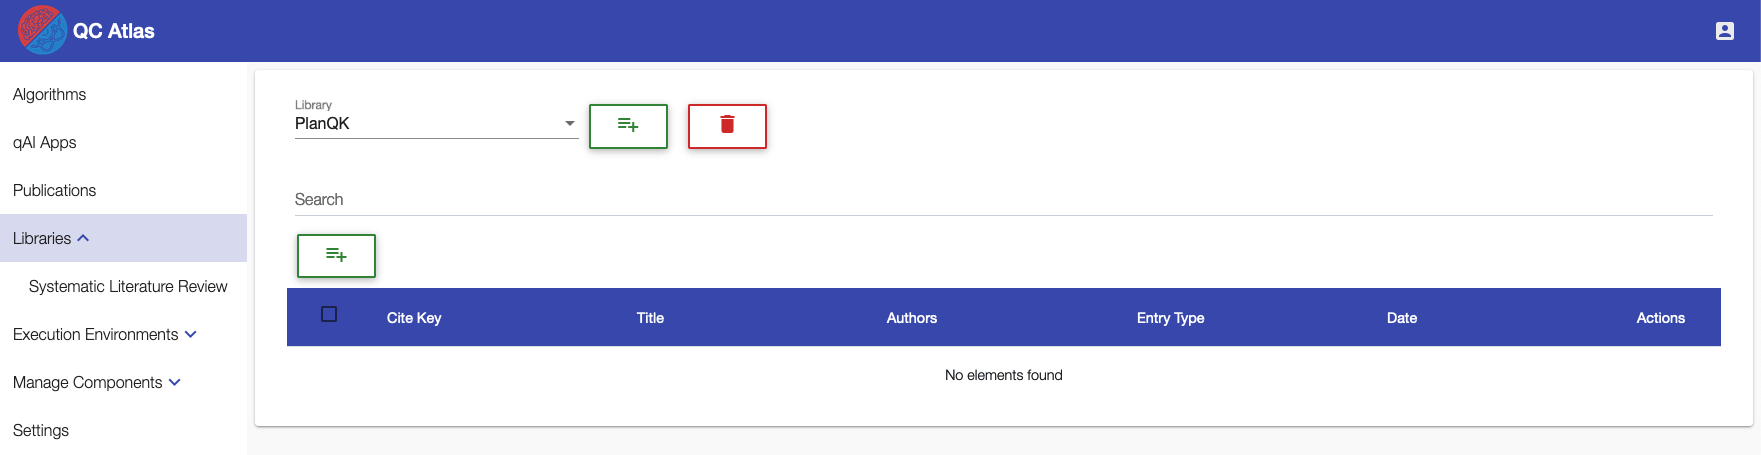
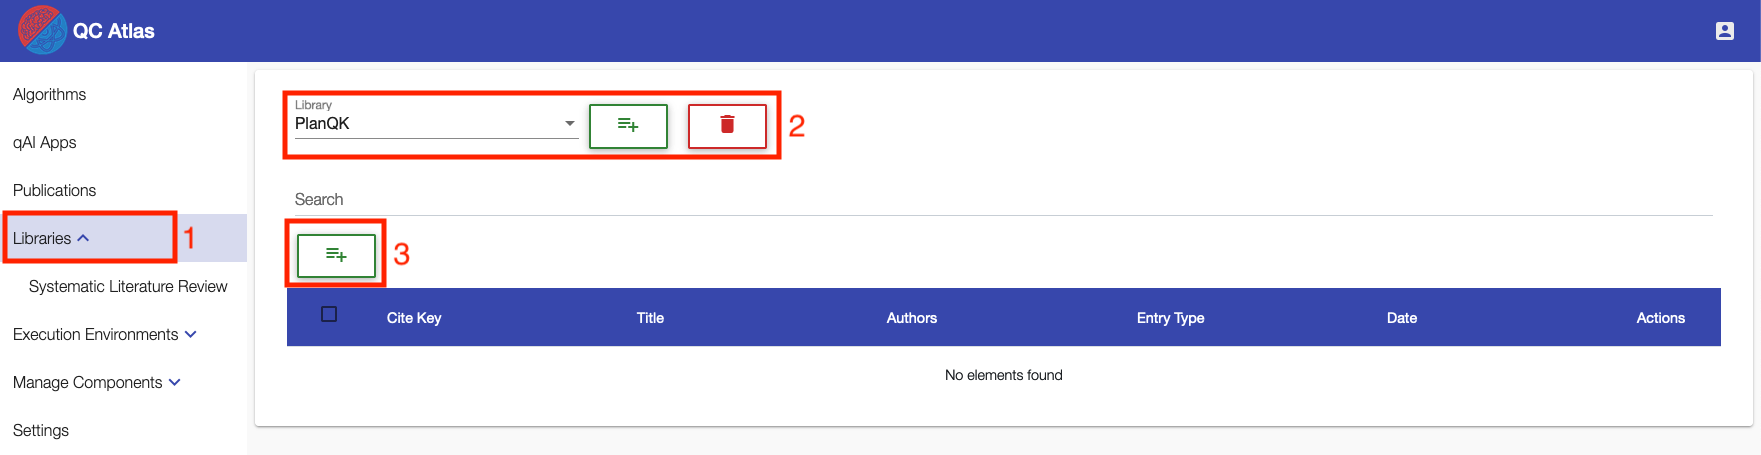
add libraries overview

diff --git a/docs/user-guide/qc-atlas/libraries.md b/docs/user-guide/qc-atlas/libraries.md
@@ -9,7 +9,21 @@ In the follwoing, these two main features are explained.
 
 ### bibTeX Libraries
 
+#### Overview
+1. The bibTeX libraries can be found directly under `Libraries` tab in the navigation bar
+2. The component allows to select existing libraries, create new libraries, and delete libraries
+3. New entries can be added for the selected library using the green add button
+
 ![alt text](../images/libraries/overview_library_ui.png "Overview Libraries")
 
-### Systematic Literature Reviews
-#### Systematic Literature Review
+#### Add new bibTeX entry
+
+![alt text](../images/libraries/add_new_bibentry.png "Add new bibTeX entry")
+
+### Systematic Literature Review
+
+#### Overview
+1. The `Systematic Literature Review` component can be found in the sub-menu of `Libraries` tab in the navigation bar
+2. The component allows to select existing studies, and to create new studies
+
+![alt text](../images/libraries/overview_slr.png "Overview SLR")
